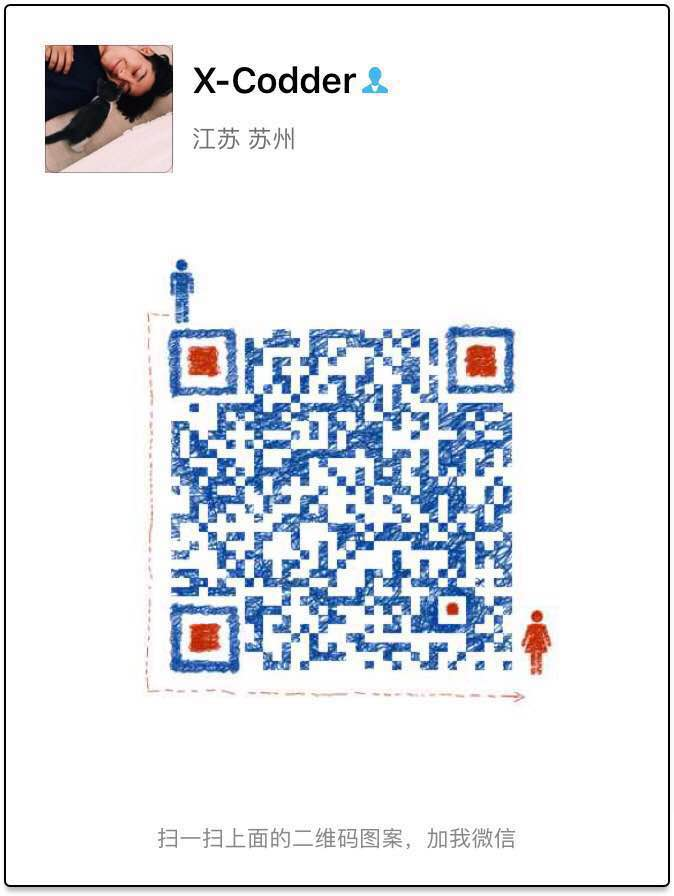
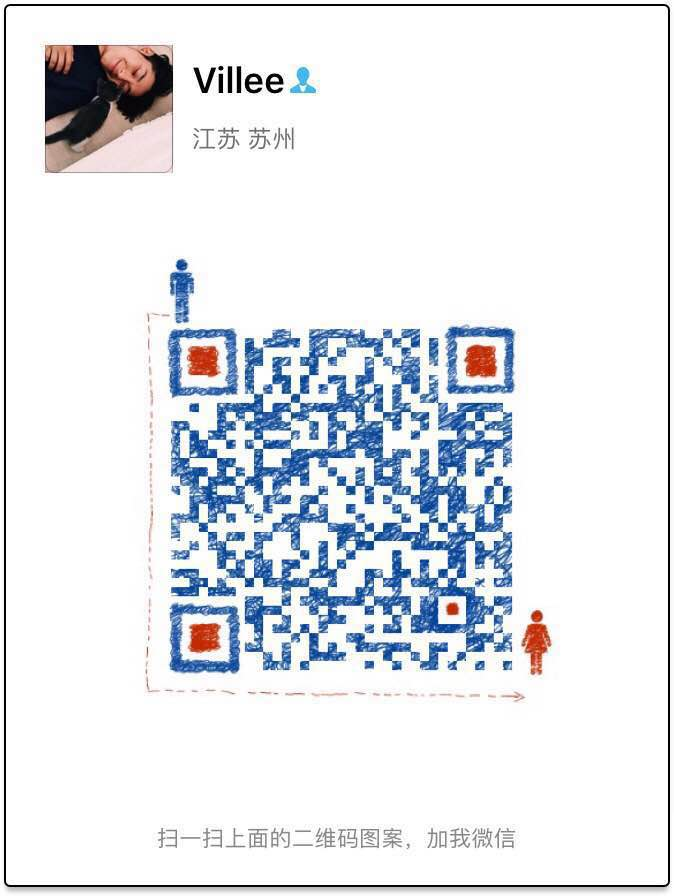
修改dev-server端口

diff --git a/src/components/post/LineLogo.vue b/src/components/post/LineLogo.vue
@@ -8,7 +8,7 @@
       <div class="line"></div>
     </div>
     <div class="words">
-      X-Codder , 来跟我学做菜吧...
+      Villee_> , 来跟我学做菜吧...
     </div>
   </div>
 </template>
@@ -25,6 +25,7 @@
   .wrapper {
     display: flex;
     align-items: center;
+    margin-top: 8rem;
     .center {
       width: 6rem;
       height: 6rem;

diff --git a/src/components/main_content/MainContent.vue b/src/components/main_content/MainContent.vue
@@ -23,6 +23,7 @@
     mounted() {
       this.$http.get('/x-blog/posts').then(data => {
         this.posts = data.data || [];
+        console.log('请求文章内容成功!');
       }).catch(error => {
         console.log('请求文章内容失败!');
       })

diff --git a/config/index.js b/config/index.js
@@ -23,7 +23,7 @@ module.exports = {
   },
   dev: {
     env: require('./dev.env'),
-    port: 8080,
+    port: 8090,
     autoOpenBrowser: true,
     assetsSubDirectory: 'static',
     assetsPublicPath: '/',
